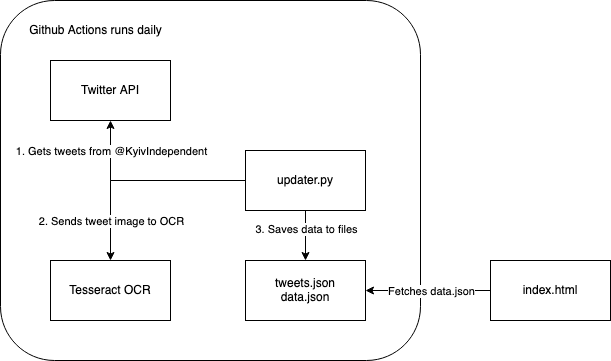
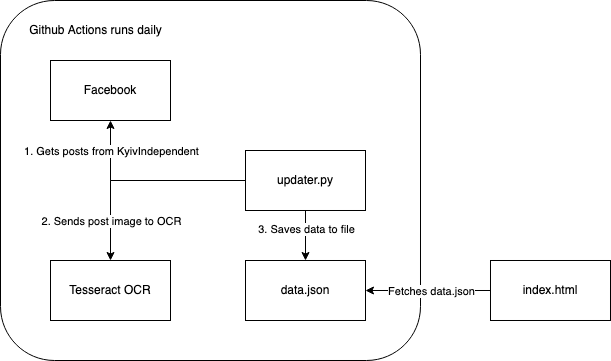
update readme and archi diagram

diff --git a/README.md b/README.md
@@ -6,17 +6,15 @@ Visualization of Russia's military losses throughout the war against Ukraine.
 
 ![Architecture diagram](archi.png)
 
-Data is sourced from [@KyivIndependent on Twitter](https://twitter.com/KyivIndependent) daily images reporting the Russia's losses, like this https://t.co/f0IHYWTll6. `updater.py` parses the data by passing the image to Tesseract OCR.
+Data is sourced from [KyivIndependent on Facebook](https://www.facebook.com/kyivindependent) daily images reporting the Russia's losses, like this https://fb.com/292598229942920. Data before 2023-04-21 was scraped from [@KyivIndependent's Twitter](https://twitter.com/KyivIndependent) until Twitter removed the free api access. `updater.py` parses the data by passing the image to Tesseract OCR.
 
-The script assumes that images are uploaded daily, contain the word `losses` and stay consistent with the 2 columns format. If the report images appear more frequently, there will be overwritten data. Anything else will just cause missing/wrong data.
+The script assumes that images are uploaded daily, contain the word `Russia's losses` and stay consistent with the 2 columns format. OCR may produce incorrect reading of the image and manual corrections may be made.
 
 The frontend is a simple html file which fetches data.json to generate [uPlot](https://github.com/leeoniya/uPlot/) charts.
 
 ## Getting Started
 
-Sign up for a Twitter dev account and get a [bearer token](https://developer.twitter.com/en/docs/authentication/oauth-2-0). Set it as `$TWITTER_TOKEN` env var.
-
-Next is basically following the [Github Actions job](https://github.com/davidchoo12/russias-losses/blob/master/.github/workflows/update-data.yml)
+Basically follow the [Github Actions job](https://github.com/davidchoo12/russias-losses/blob/master/.github/workflows/update-data.yml)
 
 ```bash
 sudo apt install -y tesseract-ocr libtesseract-dev
